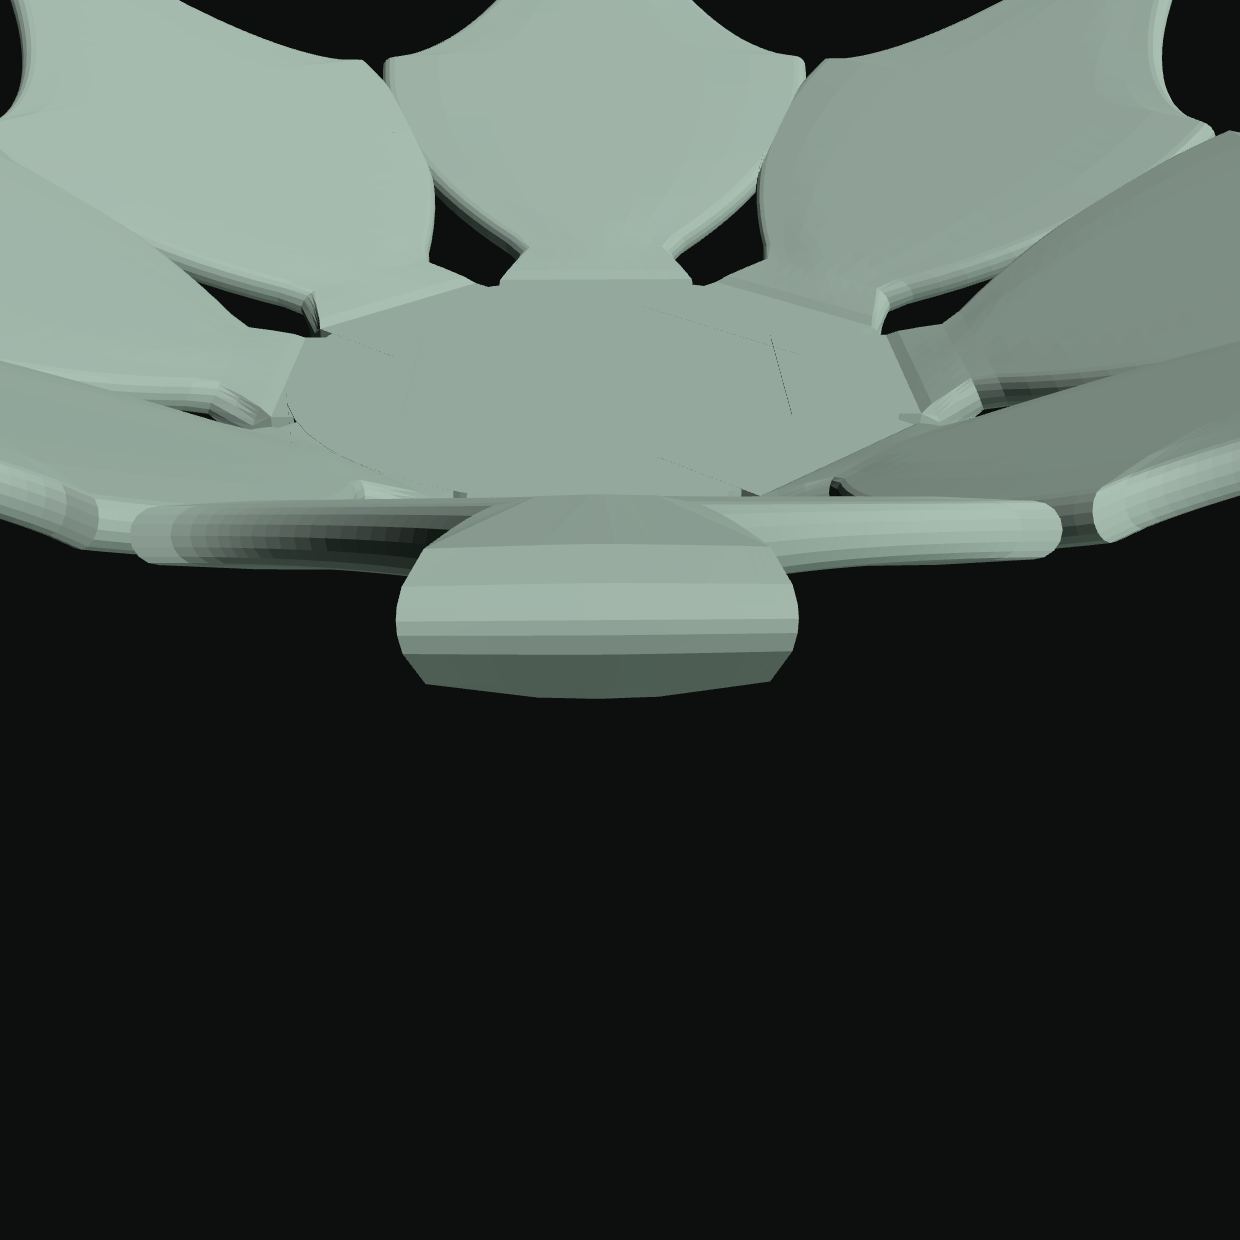
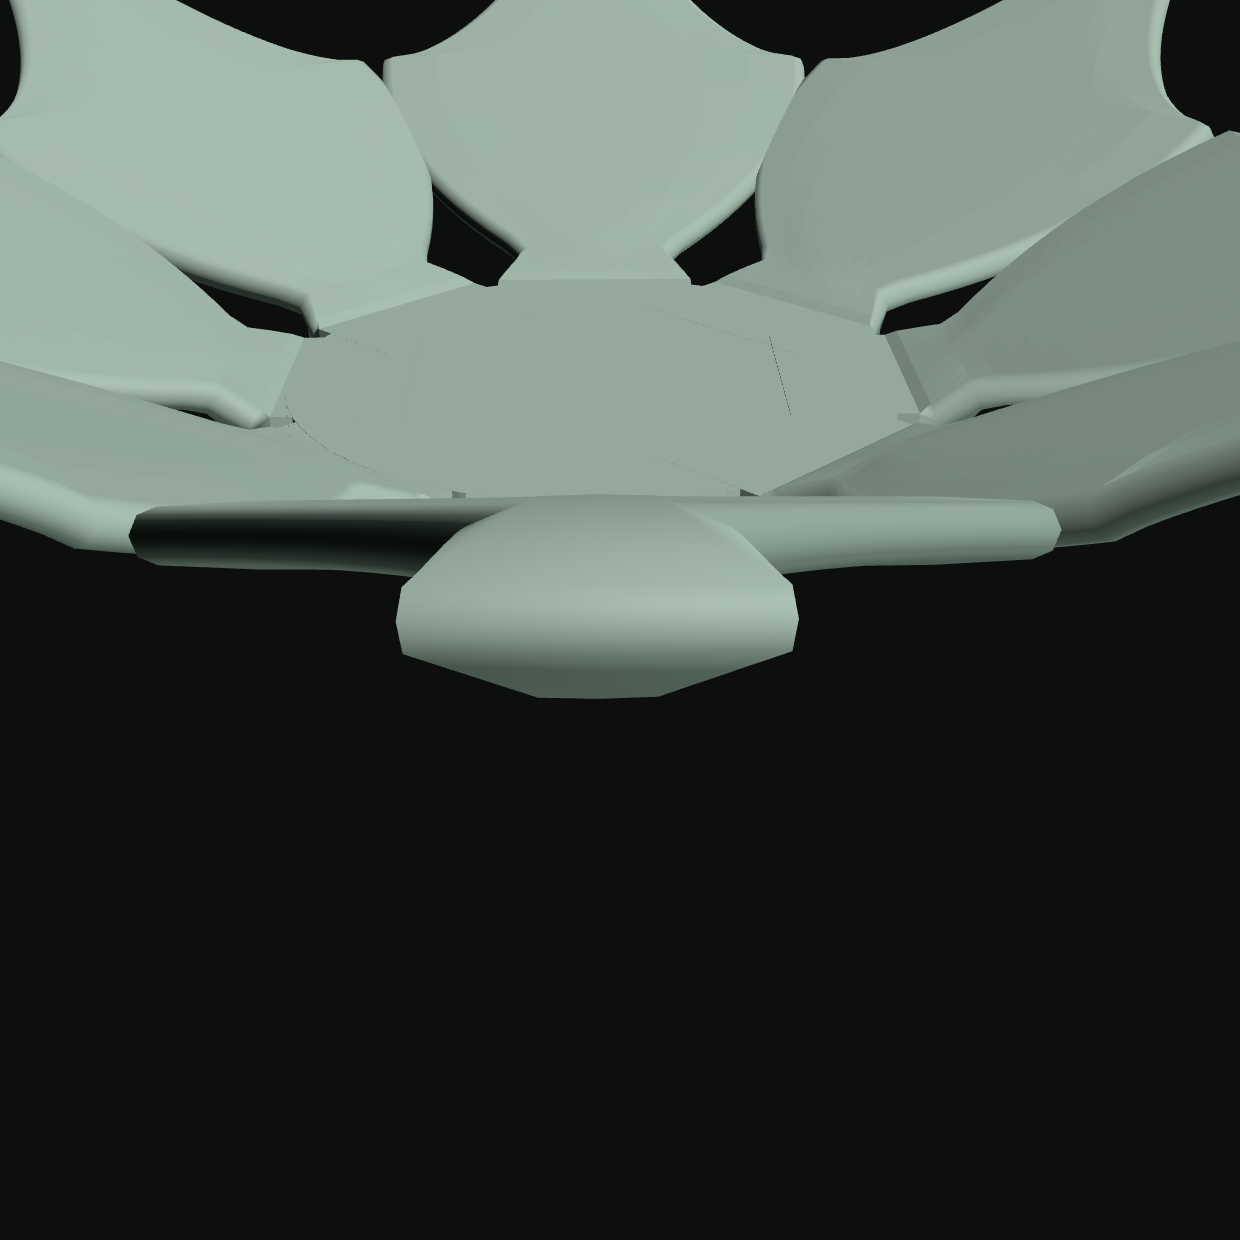
bloom: the outcome doc for Eva's three rulings, and the re-rendered images
Sections 10-13: the segment cap with both unreachable clauses and their
reasons, the normals channel and what it leaves out, the measured cost on
three trees over 909 rows, the withdrawal of INFLO: ALL MAX's refusal, the
gate-runtime projection with the spread it carries, E2's re-derived bar with
its four declared rows, and ruling 3's measurement.

RULING 3's ANSWER: no fold and no self-intersection at any pointed apex, on
seven states across both trees — 0 census sites within 2 mm of a tip, 0
unmatched directed edges, 0 triangles at the gate's own degeneracy bar, 0
hairpins. The 174.27 deg hairpin on the cleft state is MAIN'S OWN (identical
on both trees, 3.20 mm from a tip). Near-tip facet turns are strictly better
than main's on every state: 224 -> 32, 344 -> 32, 184 -> 0, 12800 -> 6736.
What was in the render is FLAT SHADING of a faceted bead — bloom.js builds a
non-indexed buffer, so an 8-segment bead stepped 22.5 deg a facet at about
0.2 mm; measured as Lambert jumps, K=8 put 490 near-tip edges over a 0.20 jump
at a 0.464 mm mean facet against main's 154 at 0.963 mm. Both halves of
ruling 1 address it and no geometry change was made for ruling 3, because the
measurements say there is nothing to fix.

The "64 near-tip slivers" the first probe found were its own bar: at the
gate's DEGENERATE_AREA_MM2 of 1e-9 the count is 0 on every state.

The three before/after pairs are re-rendered at four segments with the bead's
[…]

diff --git a/docs/bloom-edge-profile-outcome.md b/docs/bloom-edge-profile-outcome.md
@@ -264,3 +264,264 @@ clause was not loosened.
 both trees), so `frozen/phase37` stays the newest baseline. Every frozen tag's
 BYTES stop reproducing on every row with a petal, which is expected of a change
 that re-triangulates every perimeter and is named here rather than in the list.
+
+---
+
+# Eva's three rulings on the shipped branch
+
+## 10. Ruling 1 — the bead is four segments, with its own normal
+
+> *"cap at 4 at full radius (0.5 mm), scaling down with drawn radius to a
+> minimum of 3, with smooth (averaged) normals across the bead. Reason: 8
+> segments puts facets at about 0.2 mm, below Nylon 12 White's ~0.35–0.4 mm
+> resolvable detail."*
+
+**The cap ships and it is the whole of the saving. The other two clauses are
+unreachable, and each is blocked by something this project has already ruled
+on** — reported rather than quietly implemented or quietly dropped.
+
+**(i) The scaling never fires, because the only radius `rimSegments` is allowed
+to read is a constant.** The DRAWN radius is
+`min(RIM_BEAD_RADIUS_MM, tBody/2, RIM_ROOM_FRACTION * room)`, and every arm past
+the first is MODE-DEPENDENT: `tBody` carries the export sheet floor and `room`
+carries the tip floor (0.15 mm live against 0.80 mm export). A segment count
+read off it would make the TRIANGLE COUNT mode-dependent, which both STL gates
+assert against by name and which this project has refused six times. What is
+left to read is the sheet through `max(t, MIN_FEATURE_MM)` — and that makes the
+cap an **identity**, not a measurement: `max(t, MIN_FEATURE_MM) / 2 >=
+MIN_FEATURE_MM / 2`, which *is* `RIM_BEAD_RADIUS_MM` on this tree (1.0/2 = 0.5),
+so the first arm binds for every finite input and the ratio is exactly 1.
+Checked over 100,001 sheet values from 0 to 10 mm plus the extremes: **K = 4 on
+every one.**
+
+**(ii) Three is not an available count at all**, and that is structural rather
+than a rounding preference. The apex must be an EMITTED vertex at the profile's
+own midpoint — `pts[APEX] = apex` with `APEX = K/2`, which E4 and
+`verify-bloom-grid`'s clause 2a both read as an IEEE-754 identity — so K is even
+or the apex is not on the profile at all. At K = 3 the tangent-angle samples sit
+at 0, 60, 120 and 180 degrees and 90 is not among them, so the bead would stop
+being symmetric about the mid-surface. **Four is the smallest even count at or
+above the ruled minimum, and it is also the cap, so the two ends of the ruled
+range meet.**
+
+The min and the ratio are KEPT rather than deleted: they are the ruled law, they
+cost nothing, and they become live the day `MIN_FEATURE_MM` drops below the
+bead's diameter.
+
+### 10a. The normals are a CHANNEL, because the viewer cannot smooth anything
+
+`bloom.js` builds a **non-indexed** `BufferGeometry`, and `computeVertexNormals()`
+on one of those is a FLAT normal per triangle — it cannot average. The three.js
+remedy (`mergeVertices` then recompute) averages across EVERY shared edge, which
+would round off the foot-to-blade seam and the hub and make the solid read as
+wax; smoothing under a crease angle instead needs a position search over up to
+four million triangles on every slider drag.
+
+So the bead's normal is emitted where it is known, in closed form. In the
+`(n̂, ŵ)` plane the profile is the ellipse `(b cos θ along n̂, aLen sin θ along ŵ)`,
+whose outward normal is `(aLen cos θ, b sin θ)` — **the semi-axes swapped, and
+that is the whole of it.** Two ends fall out rather than being special-cased: at
+θ = 0 it is `+n̂`, which is the top skin's own normal (the bead leaves the skin
+tangentially, so the two agree), and at θ = π it is `−n̂`.
+
+**What it leaves out, said rather than hidden:** the term along the SWEEP, which
+is non-zero wherever the profile's size changes from one column to the next. It
+is a shading approximation and it decides no geometry.
+
+`MeshBuilder({ captureNormals })` is OFF by default and set by the **viewport's
+build alone** — the STL writes its own per-facet normal and the grid export
+writes line strips, so neither pays for the array.
+
+Measured, rather than argued:
+
+* **0 positions moved** with the channel on, over five states in both modes
+  under `Object.is` (DEFAULTS, `petalTipShape` 0.60, the cleft at six whorls, an
+  inflorescence, a sphere head with a stem).
+* every emitted normal is unit to **4.4e-16**.
+* across every bead-to-bead edge the two triangles' own emitted normals agree to
+  within **2.1e-6 degrees** — 53% of them to the bit, the residue being the
+  probe's own `fround`-keyed vertex lookup. **And that classification had to be
+  PER VERTEX**: the first cut of the probe called a triangle "bead" if its three
+  normals were not all equal, which catches every triangle straddling the end of
+  the treatment and reported half the bead as discontinuous at 21.3 degrees.
+
+### 10b. The cost
+
+Whole live matrix, **909 rows, EXPORT mode, three trees**:
+
+| | main | K = 8 | K = 4 (ships) |
+|---|---|---|---|
+| matrix total | 50,377,084 | 86,291,522 (+71.3%) | **64,789,898 (+28.6%)** |
+| `DEFAULT` | 19,040 | 33,072 | **24,688** (+29.7% / −25.4%) |
+| `ALL MIN` | 7,260 | 12,522 | **9,378** (+29.2% / −25.1%) |
+| `ALL MAX` | 2,354,268 | 4,239,920 | **3,090,816** (+31.3% / −27.1%) |
+| `INFLO: ALL MAX` | 1,114,828 | 1,886,588 | **1,425,468** (+27.9% / −24.4%) |
+
+**The bead's own added triangles fall from 35.9M to 14.4M — a 60% reduction**,
+more than the naive halving of K would give, because the corner fans and the
+degenerate-skipping scale with it too.
+
+**THE BLOOM HAS NO PRESETS, and that is a fact about this generator rather than
+a step skipped.** `bloom-view-presets.js` is the VIEW box's dropdown — camera
+position and fov, read by `presetDistance`, building no geometry and carrying no
+triangle count; `flower-presets.js` belongs to the other generator, which has its
+own three gates. The named matrix corners above are what stands in their place,
+and `ALL MAX` is the corner this project's own rule says to measure.
+
+**0 of 909 rows differ between live and export.**
+
+### 10c. `INFLO: ALL MAX` is no longer a refusal
+
+At eight segments it was a NEW refusal and was declared. At four it builds
+**1,425,468 — 95.0% of the 1,500,000 budget, under it** — so it exports, and XR2
+would fail on a declaration that stayed. Its entry is **withdrawn**, and the
+withdrawal is recorded in the block's own header rather than leaving the list
+one row shorter with no explanation. It is now the closest any row comes to the
+bar; the re-swept matrix puts the next highest at 46%.
+
+### 10d. The gate runtime, projected
+
+Measured on this branch at K = 8: `bloom-export-watertight` **5 h 32 m** (matrix
+step 5 h 26 m) and `bloom-connectedness` **3 h 20 m** — **27.7 minutes of
+headroom under the 6-hour job timeout**, which was the real risk.
+
+Fitting `t = a + b·T` through main's recent cluster (CLAUDE.md's own last five
+successes, 214.8–221.4 min, median 218 at T = 50.38M) and this branch's measured
+332 min at T = 86.29M gives b = 3.18 min per million triangles and a = 58 min,
+so at T = 64.79M:
+
+| | K = 8, measured | K = 4, projected |
+|---|---|---|
+| `bloom-export-watertight` | 332 min | **~264 min (4 h 24 m)** |
+| `bloom-connectedness` | 200 min | **~153 min (2 h 33 m)** |
+| headroom under the 6 h timeout | 27.7 min | **~96 min** |
+
+**The projection carries the spread of the number it is fitted through**, and
+that spread is wide by this project's own record: at main's historic low of
+151.8 min the same fit gives 225 min instead of 264. So read it as *roughly four
+and a quarter hours, with the timeout no longer close* — and **size the actual
+wait off `actions_list`'s own recent completed runs at the time**, which is the
+rule CLAUDE.md states and which no figure here replaces.
+
+### 10e. E2's typed 30-degree bar was in conflict with this ruling
+
+A half round sampled at K segments turns **180/K** between adjacent facets BY
+CONSTRUCTION — that is exactly what the tangent-angle sampling buys, and it is
+the bead drawing itself rather than an edge the treatment added. At K = 4 that
+is 45 degrees, so **a typed 30 forbids the count Eva ruled**; the two rulings
+cannot both be satisfied by a constant. The later one, which states its reason,
+governs.
+
+The bar is now the bead's own resolution, read through `RIM_BEAD_SEGMENTS`. **It
+is STRICTER than the number it replaces wherever the old one applied** — at
+K = 8 it is 22.5 against 30, and the shipped tree measured 21.50 there — so the
+derivation would have held on the geometry it replaces as well as on this one.
+That is the test that says it is a re-derivation rather than a bar fitted to the
+data in hand. The SHADING half of the old bar's job is answered by the other
+half of the same ruling: the bead now carries its own smooth normal, so a facet
+edge is no longer something the eye can find.
+
+**Four rows exceed it and are DECLARED with their magnitudes** (#213's idiom, in
+degrees), because the SURFACE itself turns faster than the outline's PLAN turn
+can see:
+
+| row | excess over 45° | why |
+|---|---|---|
+| `BUCKLE: the default frequency at a strong amplitude (0.30 x, f 3)` | **6.236137** | the wave curves the margin OUT OF PLANE; raw 60.05°, outline 8.81° |
+| `TIP SHAPE: 0.60 x the thickest sheet (2.40 …)` | **0.005430** | the taper runs 2.40 → 1.00 mm over `RIM_TAPER_MM`, so the profile's own half-thickness changes along the sweep and the quad is not planar |
+| `FRINGE: THE CARNATION — 7 teeth …` | **0.000168** | a tooth's terminal; the frame rotates a hair between adjacent columns |
+| `FRINGE: GATED — LOBES asked for under a fringe …` | **0.000168** | the same fringe |
+
+Both directions, band 5e-5 deg (#213's own 5e-5, in the unit this quantity
+carries, eight orders above the float floor of an angle taken from two unit
+normals and well inside the smallest excess declared). Plus a clause that fails
+on a declaration naming a row the gate never ran — the combination gate's CG5,
+one instrument later.
+
+## 11. Ruling 3 — the bead does not fold at a pointed apex
+
+> *"the after-render shows a dark notch at the tip of a torpedo-shaped petal
+> (lower ring) and a sliver near an upper-right pointed tip. Determine whether
+> the bead folds or self-intersects at pointed apexes. Measure it from the
+> exported mesh; don't judge it from shading."*
+
+**Measured from the emitted mesh on BOTH trees, and the answer is no on every
+instrument.** Every site is located against the petal's own TIP read off the
+builder's captured mid-surface, so "at the apex" is the builder's answer and not
+the session's.
+
+| | `petalTipShape` 0.60 | cleft × 6 whorls | DEFAULTS | `petalTipShape` 3.00 |
+|---|---|---|---|---|
+| within-shell census sites within 2 mm of a tip | **0** | **0** | **0** | **0** |
+| unmatched DIRECTED edges (an inside-out facet) | **0** | **0** | **0** | **0** |
+| triangles at or under the gate's own degeneracy bar (1e-9 mm²) | **0** | **0** | **0** | **0** |
+| hairpins (> 150°) within 2 mm of a tip | **0** | **0** | **0** | **0** |
+
+The census was also run on `petalTipShape` 0.60 × the thinnest sheet, × 60 mm
+long, and on the cleft at one whorl: **0 sites near a tip on all seven states.**
+
+**The one thing that looked like a finding was the probe's own bar.** At a
+threshold of 5e-5 mm² the cleft-at-six-whorls state showed 64 near-tip "slivers"
+where main showed none — but the gate's own `DEGENERATE_AREA_MM2` is **1e-9**,
+four orders below that, and at the project's own bar the count is **0**. The
+smallest facet there is 3.99e-5 mm²: a small triangle on a finely subdivided
+bead, not a degenerate one.
+
+**The 174.27° hairpin on the cleft state is MAIN'S OWN** — the identical value
+at the identical distance on both trees, 3.20 mm from a tip, with main carrying
+72 of them and the branch 88. Pre-existing, and not at an apex.
+
+**And near-tip facet turns are strictly BETTER than main's**, which is the
+measurement that settles it (turns over 60°, within 2 mm of a tip, export):
+
+| | main | K = 8 | K = 4 |
+|---|---|---|---|
+| `petalTipShape` 0.60 | 224 (150 of them 90–120°) | 96 | **32** |
+| DEFAULTS | 344 (168 at 90–120°) | 72 | **32** |
+| `petalTipShape` 3.00 | 184 (96 at 90–120°) | 16 | **0** |
+| cleft × 6 whorls | 12,800 (7,216 at 90–120°) | 7,368 | **6,736** |
+
+Main's worst near-tip turn is **exactly 90.00°** — the flat wall meeting the
+skin, which is what the treatment exists to remove.
+
+### 11a. So what was in the render
+
+**Shading, and the ruling's own other half fixes it.** `bloom.js` builds a
+non-indexed buffer, so every triangle rendered with its own FLAT normal: an
+8-segment bead steps 22.5° a facet at about 0.2 mm, which is a rosette of
+discrete shading bands wrapping a pointed tip over roughly a millimetre of
+screen. Measured as the Lambert jump across each near-tip edge under one fixed
+light, `petalTipShape` 0.60: main 154 edges over a 0.20 jump at a 0.963 mm mean
+facet; K = 8 **490 edges at 0.464 mm**; K = 4 367 at 0.770 mm. Three times
+main's count at half its facet size is what reads as stippling — and **on the
+bead those edges now carry no jump at all**, because the normal is continuous
+across them (§10a's 2.1e-6 degrees).
+
+The images are re-rendered at four segments with the bead's own normals:
+`docs/img/edge-profile/`.
+
+**No geometry change was made for this ruling, because the measurements say
+there is no defect to fix.** That is the finding, not an omission.
+
+## 12. What is deliberately NOT done here
+
+**`SELF_INTERSECTION_XFAIL` is not re-measured.** The tessellation moved with
+the segment count, so declared magnitudes have moved: a nine-row subset run
+already reads three rows with new pairs, all at **worst span 0.0000 mm** — the
+knife-edge class this project documents, where a census triangle grazes a crease
+and the count is decided by where the stations land (`TIP SHAPE: 0.60 x a far-out
+widest point` 14 pairs, `TIP SHAPE: 0.60 x the thickest sheet` 2, `SPHERE STEM:
+the default sphere at the shipped stem` 2).
+
+Eva's ruling 2: *"do NOT declare the 108 rows here. A separate session is fixing
+the census instrument as its own PR. Do not touch the census code in this
+branch."* So the list is re-measured **once**, at rebase time, against the
+instrument that will actually run it — re-recording now would bake in numbers
+the census fix changes again.
+
+## 13. Local gates on this tree
+
+* `node tools/verify-bloom-edge-profile.mjs` — **PASS**, 110 rows, 645,428
+  treated profiles, 4 of 4 declared surface-turn rows seen.
+* `node tools/verify-bloom-grid.mjs` — **PASS**, 736 checks over 19 rows.
+* `node tools/verify-bloom-panel.mjs` — **PASS**.
